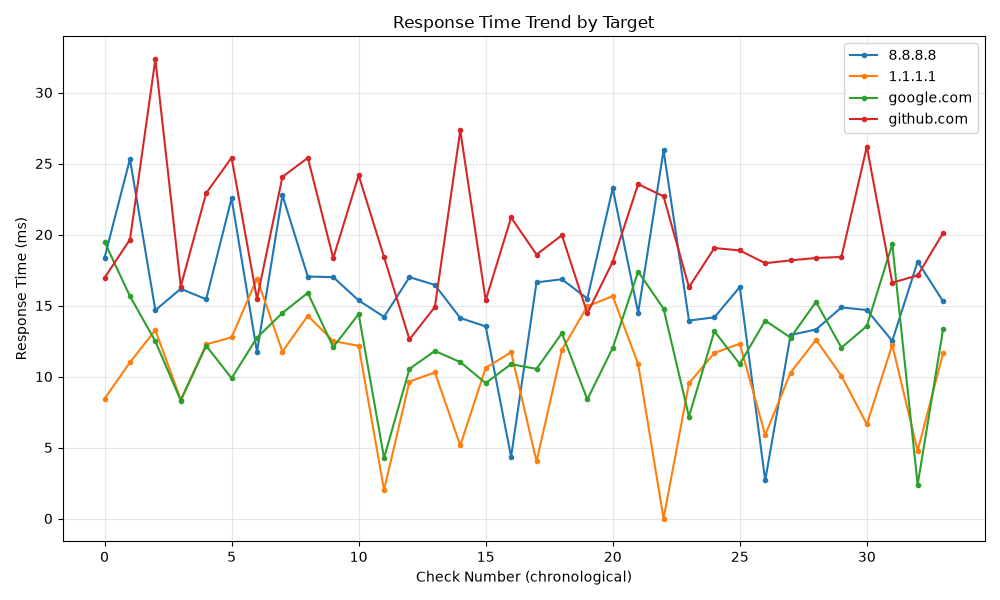
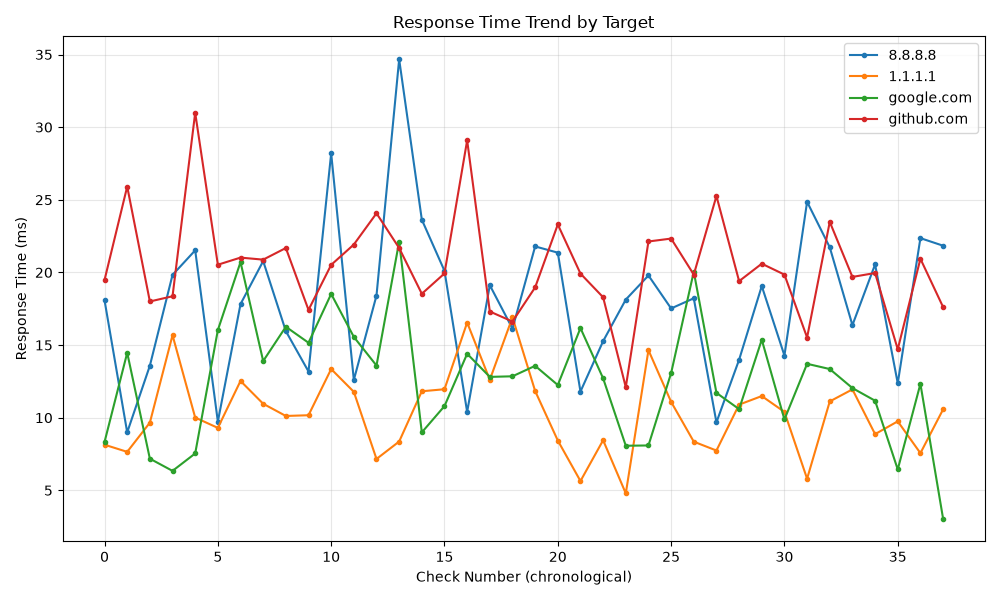
Fix leftover merge conflict markers

diff --git a/audit_report.py b/audit_report.py
@@ -1,4 +1,3 @@
-<<<<<<< HEAD
 """
 audit_report.py
 -----------------
@@ -99,7 +98,7 @@ def generate_chart(conn, targets, chart_path):
         plt.grid(True, alpha=0.3)
         plt.tight_layout()
         plt.savefig(chart_path)
-        print(f"✅ Chart saved to '{chart_path}'")
+        print(f"Chart saved to '{chart_path}'")
     else:
         print("No latency data available to chart.")
     plt.close()
@@ -147,7 +146,7 @@ def print_report():
         print("  None detected.")
 
     export_summary_csv(summary_rows, "uptime_report.csv")
-    print(f"\n✅ Summary exported to 'uptime_report.csv'")
+    print(f"\nSummary exported to 'uptime_report.csv'")
 
     generate_chart(conn, targets, "uptime_chart.png")
 
@@ -155,162 +154,4 @@ def print_report():
 
 
 if __name__ == "__main__":
-=======
-"""
-audit_report.py
------------------
-Reads the ping_log data collected by uptime_monitor.py, runs SQL queries
-to calculate uptime %, average latency, and detect anomalies, prints a
-summary report, exports a CSV, and generates an uptime trend chart.
-"""
-
-import sqlite3
-import csv
-import json
-from datetime import datetime
-import matplotlib.pyplot as plt
-
-
-def load_config(path="config.json"):
-    with open(path, "r") as f:
-        return json.load(f)
-
-
-def get_connection(db_file):
-    return sqlite3.connect(db_file)
-
-
-def uptime_summary(conn):
-    query = """
-        SELECT
-            target,
-            COUNT(*) AS total_checks,
-            SUM(CASE WHEN status = 'up' THEN 1 ELSE 0 END) AS up_count,
-            SUM(CASE WHEN status = 'down' THEN 1 ELSE 0 END) AS down_count,
-            ROUND(100.0 * SUM(CASE WHEN status = 'up' THEN 1 ELSE 0 END) / COUNT(*), 2) AS uptime_pct,
-            ROUND(AVG(CASE WHEN status = 'up' THEN response_time_ms END), 2) AS avg_latency_ms,
-            ROUND(MAX(CASE WHEN status = 'up' THEN response_time_ms END), 2) AS max_latency_ms
-        FROM ping_log
-        GROUP BY target
-        ORDER BY uptime_pct ASC
-    """
-    return conn.execute(query).fetchall()
-
-
-def downtime_events(conn):
-    query = """
-        SELECT target, timestamp
-        FROM ping_log
-        WHERE status = 'down'
-        ORDER BY timestamp DESC
-    """
-    return conn.execute(query).fetchall()
-
-
-def high_latency_events(conn, threshold_ms):
-    query = """
-        SELECT target, timestamp, response_time_ms
-        FROM ping_log
-        WHERE status = 'up' AND response_time_ms > ?
-        ORDER BY response_time_ms DESC
-    """
-    return conn.execute(query, (threshold_ms,)).fetchall()
-
-
-def latency_over_time(conn, target):
-    query = """
-        SELECT timestamp, response_time_ms
-        FROM ping_log
-        WHERE target = ? AND status = 'up'
-        ORDER BY timestamp ASC
-    """
-    return conn.execute(query, (target,)).fetchall()
-
-
-def export_summary_csv(rows, path):
-    with open(path, "w", newline="") as f:
-        writer = csv.writer(f)
-        writer.writerow([
-            "target", "total_checks", "up_count", "down_count",
-            "uptime_pct", "avg_latency_ms", "max_latency_ms"
-        ])
-        writer.writerows(rows)
-
-
-def generate_chart(conn, targets, chart_path):
-    plt.figure(figsize=(10, 6))
-    has_data = False
-    for target in targets:
-        rows = latency_over_time(conn, target)
-        if not rows:
-            continue
-        latencies = [r[1] for r in rows]
-        plt.plot(range(len(latencies)), latencies, marker="o", markersize=3, label=target)
-        has_data = True
-
-    if has_data:
-        plt.title("Response Time Trend by Target")
-        plt.xlabel("Check Number (chronological)")
-        plt.ylabel("Response Time (ms)")
-        plt.legend()
-        plt.grid(True, alpha=0.3)
-        plt.tight_layout()
-        plt.savefig(chart_path)
-        print(f"✅ Chart saved to '{chart_path}'")
-    else:
-        print("No latency data available to chart.")
-    plt.close()
-
-
-def print_report():
-    config = load_config()
-    db_file = config["db_file"]
-    threshold = config["high_latency_threshold_ms"]
-    targets = config["targets"]
-
-    conn = get_connection(db_file)
-
-    print("=" * 60)
-    print(f"NETWORK UPTIME & DATA QUALITY AUDIT REPORT")
-    print(f"Generated: {datetime.now().strftime('%Y-%m-%d %H:%M:%S')}")
-    print("=" * 60)
-
-    summary_rows = uptime_summary(conn)
-    if not summary_rows:
-        print("\nNo data found. Run uptime_monitor.py first to collect logs.")
-        conn.close()
-        return
-
-    print("\n--- UPTIME SUMMARY BY TARGET ---")
-    print(f"{'Target':<15}{'Checks':<8}{'Up':<6}{'Down':<6}{'Uptime%':<10}{'AvgMs':<8}{'MaxMs':<8}")
-    for row in summary_rows:
-        target, total, up, down, pct, avg_ms, max_ms = row
-        print(f"{target:<15}{total:<8}{up:<6}{down:<6}{pct:<10}{avg_ms or '-':<8}{max_ms or '-':<8}")
-
-    downs = downtime_events(conn)
-    print(f"\n--- DOWNTIME EVENTS ({len(downs)} total) ---")
-    if downs:
-        for target, ts in downs[:10]:
-            print(f"  [DOWN] {target} at {ts}")
-    else:
-        print("  None detected.")
-
-    highs = high_latency_events(conn, threshold)
-    print(f"\n--- HIGH LATENCY ANOMALIES (> {threshold}ms) — {len(highs)} total ---")
-    if highs:
-        for target, ts, rtt in highs[:10]:
-            print(f"  [SLOW] {target} at {ts} — {rtt} ms")
-    else:
-        print("  None detected.")
-
-    export_summary_csv(summary_rows, "uptime_report.csv")
-    print(f"\n✅ Summary exported to 'uptime_report.csv'")
-
-    generate_chart(conn, targets, "uptime_chart.png")
-
-    conn.close()
-
-
-if __name__ == "__main__":
->>>>>>> a5464d5e63d1991adf80a5953b87006c34430dbc
     print_report()

diff --git a/uptime_monitor.py b/uptime_monitor.py
@@ -1,4 +1,3 @@
-<<<<<<< HEAD
 """
 uptime_monitor.py
 ------------------
@@ -104,111 +103,4 @@ def run_monitor():
 
 
 if __name__ == "__main__":
-=======
-"""
-uptime_monitor.py
-------------------
-Pings a list of target hosts at regular intervals (configured in config.json),
-measures response time, logs results into a SQLite database, and writes
-alerts to a log file whenever a host goes down.
-"""
-
-import sqlite3
-import time
-import json
-from datetime import datetime
-from ping3 import ping
-
-
-def load_config(path="config.json"):
-    with open(path, "r") as f:
-        return json.load(f)
-
-
-def init_db(db_file):
-    """Create the database table if it doesn't exist yet."""
-    conn = sqlite3.connect(db_file)
-    cursor = conn.cursor()
-    cursor.execute("""
-        CREATE TABLE IF NOT EXISTS ping_log (
-            id INTEGER PRIMARY KEY AUTOINCREMENT,
-            target TEXT NOT NULL,
-            timestamp TEXT NOT NULL,
-            status TEXT NOT NULL,
-            response_time_ms REAL
-        )
-    """)
-    conn.commit()
-    conn.close()
-
-
-def log_ping_result(db_file, target, status, response_time_ms):
-    conn = sqlite3.connect(db_file)
-    cursor = conn.cursor()
-    cursor.execute(
-        "INSERT INTO ping_log (target, timestamp, status, response_time_ms) VALUES (?, ?, ?, ?)",
-        (target, datetime.now().isoformat(timespec="seconds"), status, response_time_ms)
-    )
-    conn.commit()
-    conn.close()
-
-
-def write_alert(alert_log_file, message):
-    """Append an alert line to the alert log file with a timestamp."""
-    timestamp = datetime.now().strftime("%Y-%m-%d %H:%M:%S")
-    with open(alert_log_file, "a") as f:
-        f.write(f"[{timestamp}] {message}\n")
-
-
-def check_target(target):
-    """Ping a single target and return (status, response_time_ms)."""
-    try:
-        result = ping(target, timeout=2)
-        if result is None or result is False:
-            return "down", None
-        response_time_ms = round(result * 1000, 2)
-        return "up", response_time_ms
-    except Exception as e:
-        print(f"  ! Error pinging {target}: {e}")
-        return "down", None
-
-
-def run_monitor():
-    config = load_config()
-    targets = config["targets"]
-    interval = config["check_interval_seconds"]
-    db_file = config["db_file"]
-    alert_log_file = config["alert_log_file"]
-    latency_threshold = config["high_latency_threshold_ms"]
-
-    init_db(db_file)
-    print(f"Monitoring started. Config loaded from 'config.json'.")
-    print(f"Targets: {targets}")
-    print(f"Logging data to '{db_file}', alerts to '{alert_log_file}'. Press Ctrl+C to stop.\n")
-
-    try:
-        while True:
-            print(f"--- Check at {datetime.now().strftime('%Y-%m-%d %H:%M:%S')} ---")
-            for target in targets:
-                status, rtt = check_target(target)
-                log_ping_result(db_file, target, status, rtt)
-
-                if status == "up":
-                    print(f"  [UP]   {target:<15} {rtt} ms")
-                    if rtt > latency_threshold:
-                        msg = f"HIGH LATENCY: {target} responded in {rtt} ms (threshold: {latency_threshold} ms)"
-                        write_alert(alert_log_file, msg)
-                        print(f"  [ALERT] {msg}")
-                else:
-                    print(f"  [DOWN] {target:<15} no response")
-                    write_alert(alert_log_file, f"HOST DOWN: {target} did not respond")
-
-            print(f"Sleeping {interval}s...\n")
-            time.sleep(interval)
-    except KeyboardInterrupt:
-        print("\nMonitoring stopped by user.")
-
-
-if __name__ == "__main__":
->>>>>>> a5464d5e63d1991adf80a5953b87006c34430dbc
     run_monitor()
